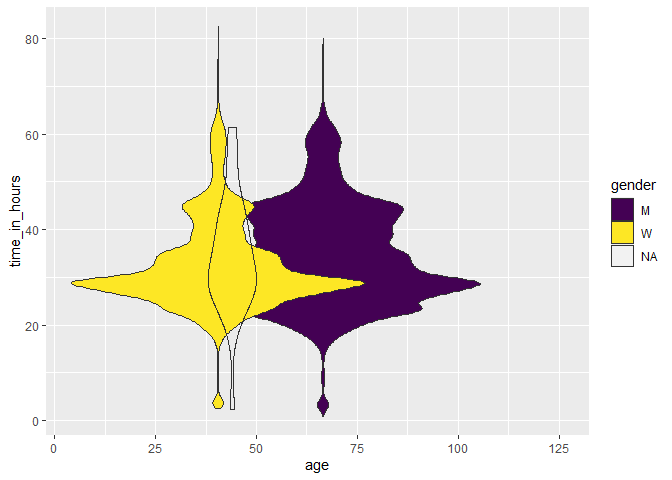
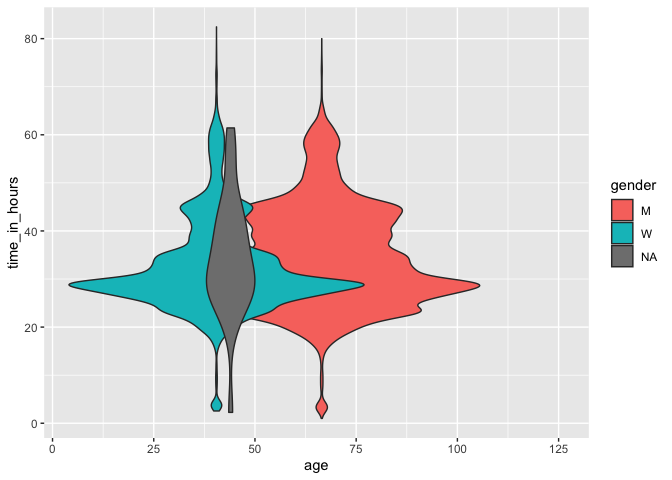
changes in Maria Jose blocks and better graphic device (AGG)

diff --git a/2021-2/README.md b/2021-2/README.md
@@ -31,7 +31,7 @@ rankings %>%
     geom_density(fill="#69b3a2", color="#e9ecef", alpha=0.8)
 ```
 
-![](README_files/figure-gfm/Alexandra-1.png)<!-- -->
+<img src="README_files/figure-gfm/Alexandra-1.png" style="display: block; margin: auto;" />
 
 ## Amalia
 
@@ -56,7 +56,7 @@ p + geom_point(aes(colour = factor(gender),shape =gender)) +
 
     ## Warning: Removed 17819 rows containing missing values (geom_point).
 
-![](README_files/figure-gfm/Andres-1.png)<!-- -->
+<img src="README_files/figure-gfm/Andres-1.png" style="display: block; margin: auto;" />
 
 ## Manuela
 
@@ -71,15 +71,14 @@ rankings <- tuesdata$ultra_ranking
 rankings_modified <-mutate(rankings, time_in_hours=time_in_seconds/3600)
 
 ggplot(rankings_modified, aes (x=age, y=time_in_hours,fill=gender))+
-  geom_violin()+
-  scale_fill_viridis_d()
+  geom_violin()
 ```
 
     ## Warning: Removed 17791 rows containing non-finite values (stat_ydensity).
 
     ## Warning: position_dodge requires non-overlapping x intervals
 
-![](README_files/figure-gfm/MariaJose-1.png)<!-- -->
+<img src="README_files/figure-gfm/MariaJose-1.png" style="display: block; margin: auto;" />
 
 ## Pablo
 
@@ -112,7 +111,7 @@ library(tidytuesdayR)
  p2
 ```
 
-![](README_files/figure-gfm/Pablo-1.png)<!-- -->
+<img src="README_files/figure-gfm/Pablo-1.png" style="display: block; margin: auto;" />
 
 ## Susana
 
